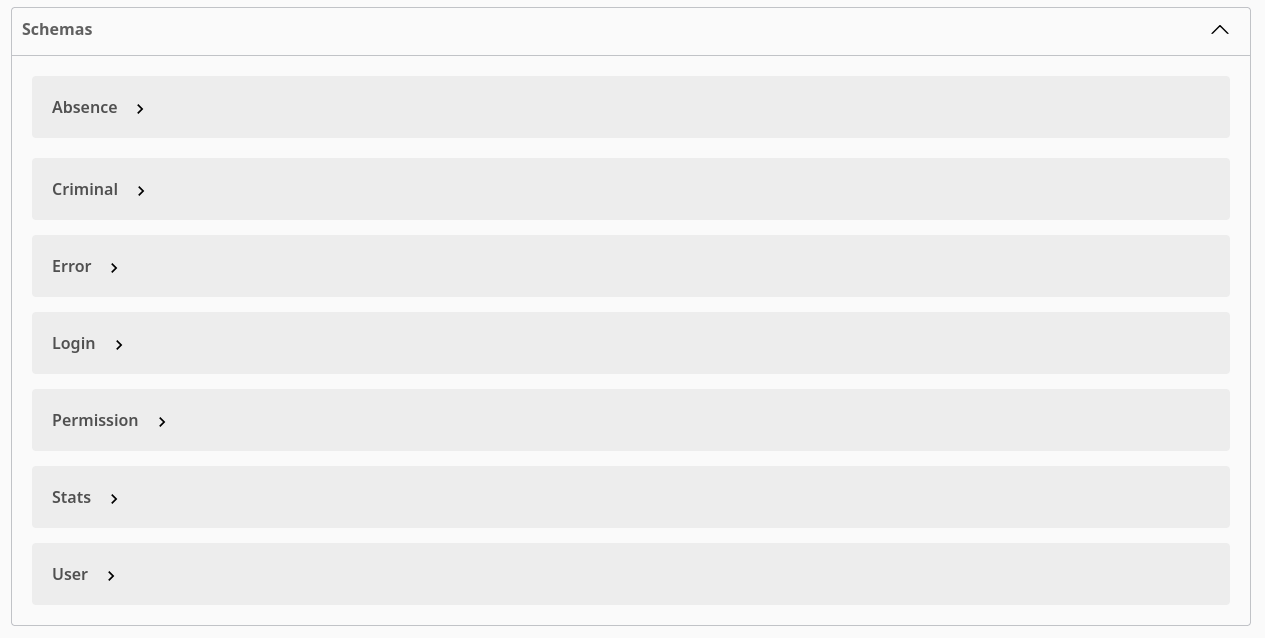
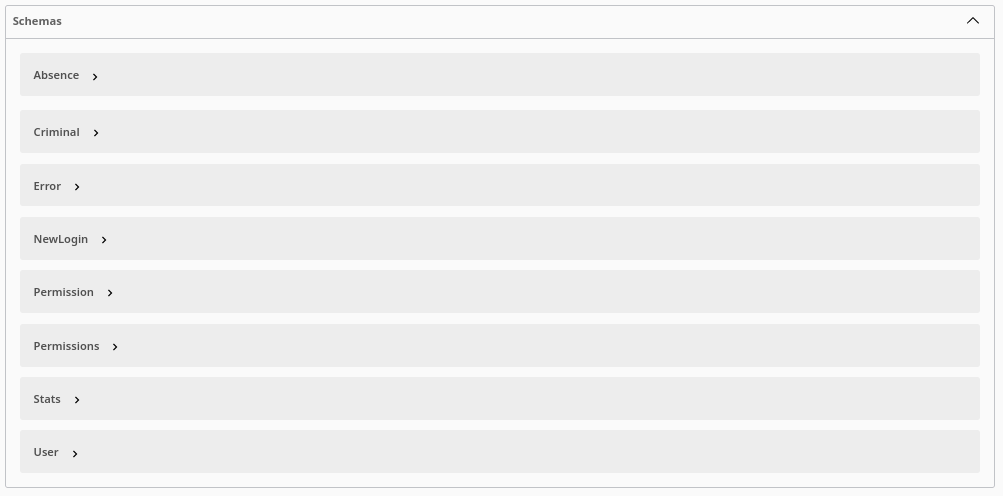
:sparkles: Updated Docs

diff --git a/static/main.js b/static/main.js
@@ -840,7 +840,7 @@ async function stats() {
 
     document.getElementById("name").textContent = statsData.name;
     document.getElementById("version").textContent = statsData.version;
-    document.getElementById("devs").textContent = "Programmer/Project Lead " + devs[0] + " und Assistant Lead " + devs[1];
+    document.getElementById("devs").textContent = "Programmer/Project Lead " + devs[0] + " und Assistant Programmer " + devs[1];
     document.getElementById("repo").textContent = statsData.repo;
     document.getElementById("repo").href = statsData.repo;
     document.getElementById("description").textContent = statsData.description;

diff --git a/src/main.rs b/src/main.rs
@@ -106,7 +106,7 @@ fn rocket() -> Rocket<Build> {
             server::delete_all_logins,
         ),
         components(
-            schemas(db::user::User, db::absence::Absence, db::criminal::Criminal, db::login::Login, db::login::NewLogin, db::login::Permission, db::login::Permissions, db::stats::Stats, db::project::Error)
+            schemas(db::user::User, db::absence::Absence, db::criminal::Criminal, db::login::NewLogin, db::login::Permission, db::login::Permissions, db::stats::Stats, db::project::Error)
         ),
         tags(
             (name = "server", description = "Server management endpoints.")
